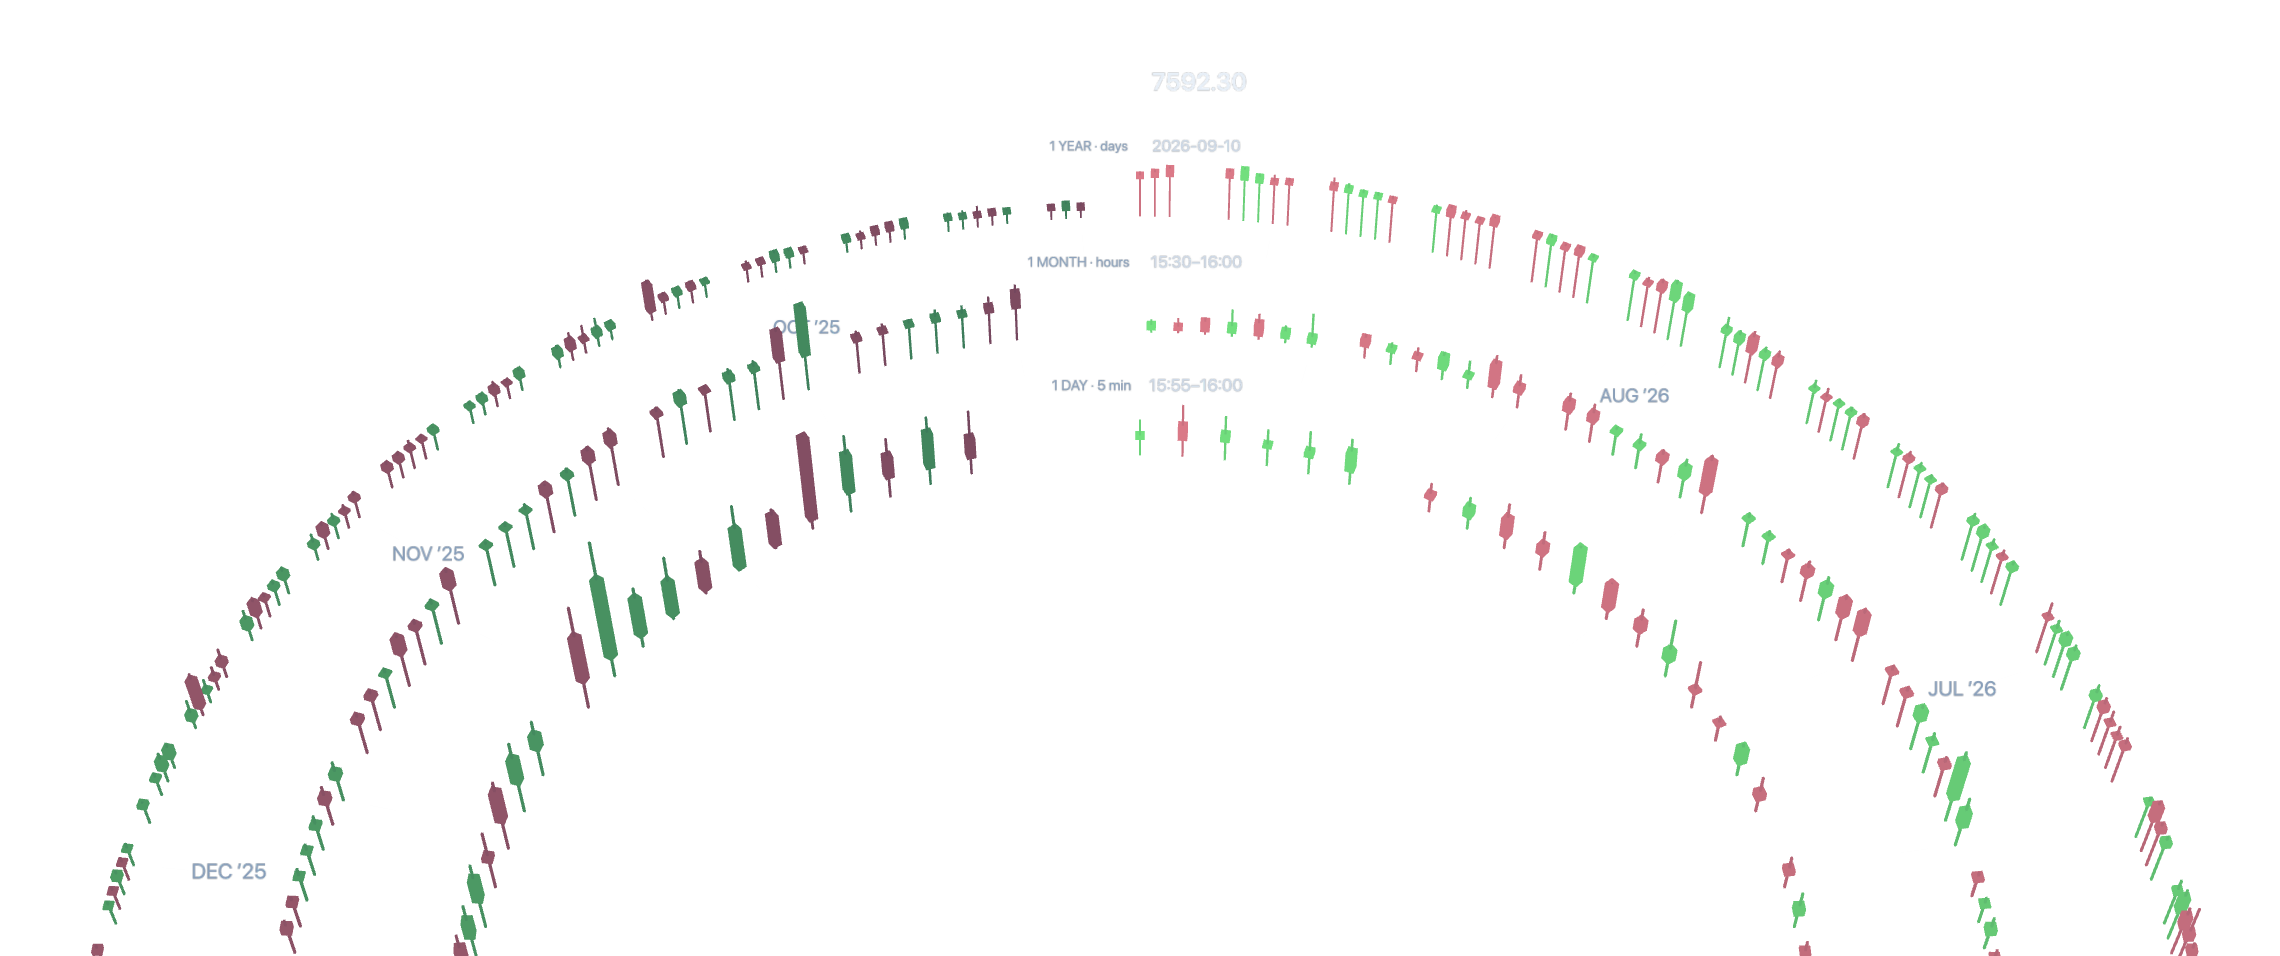
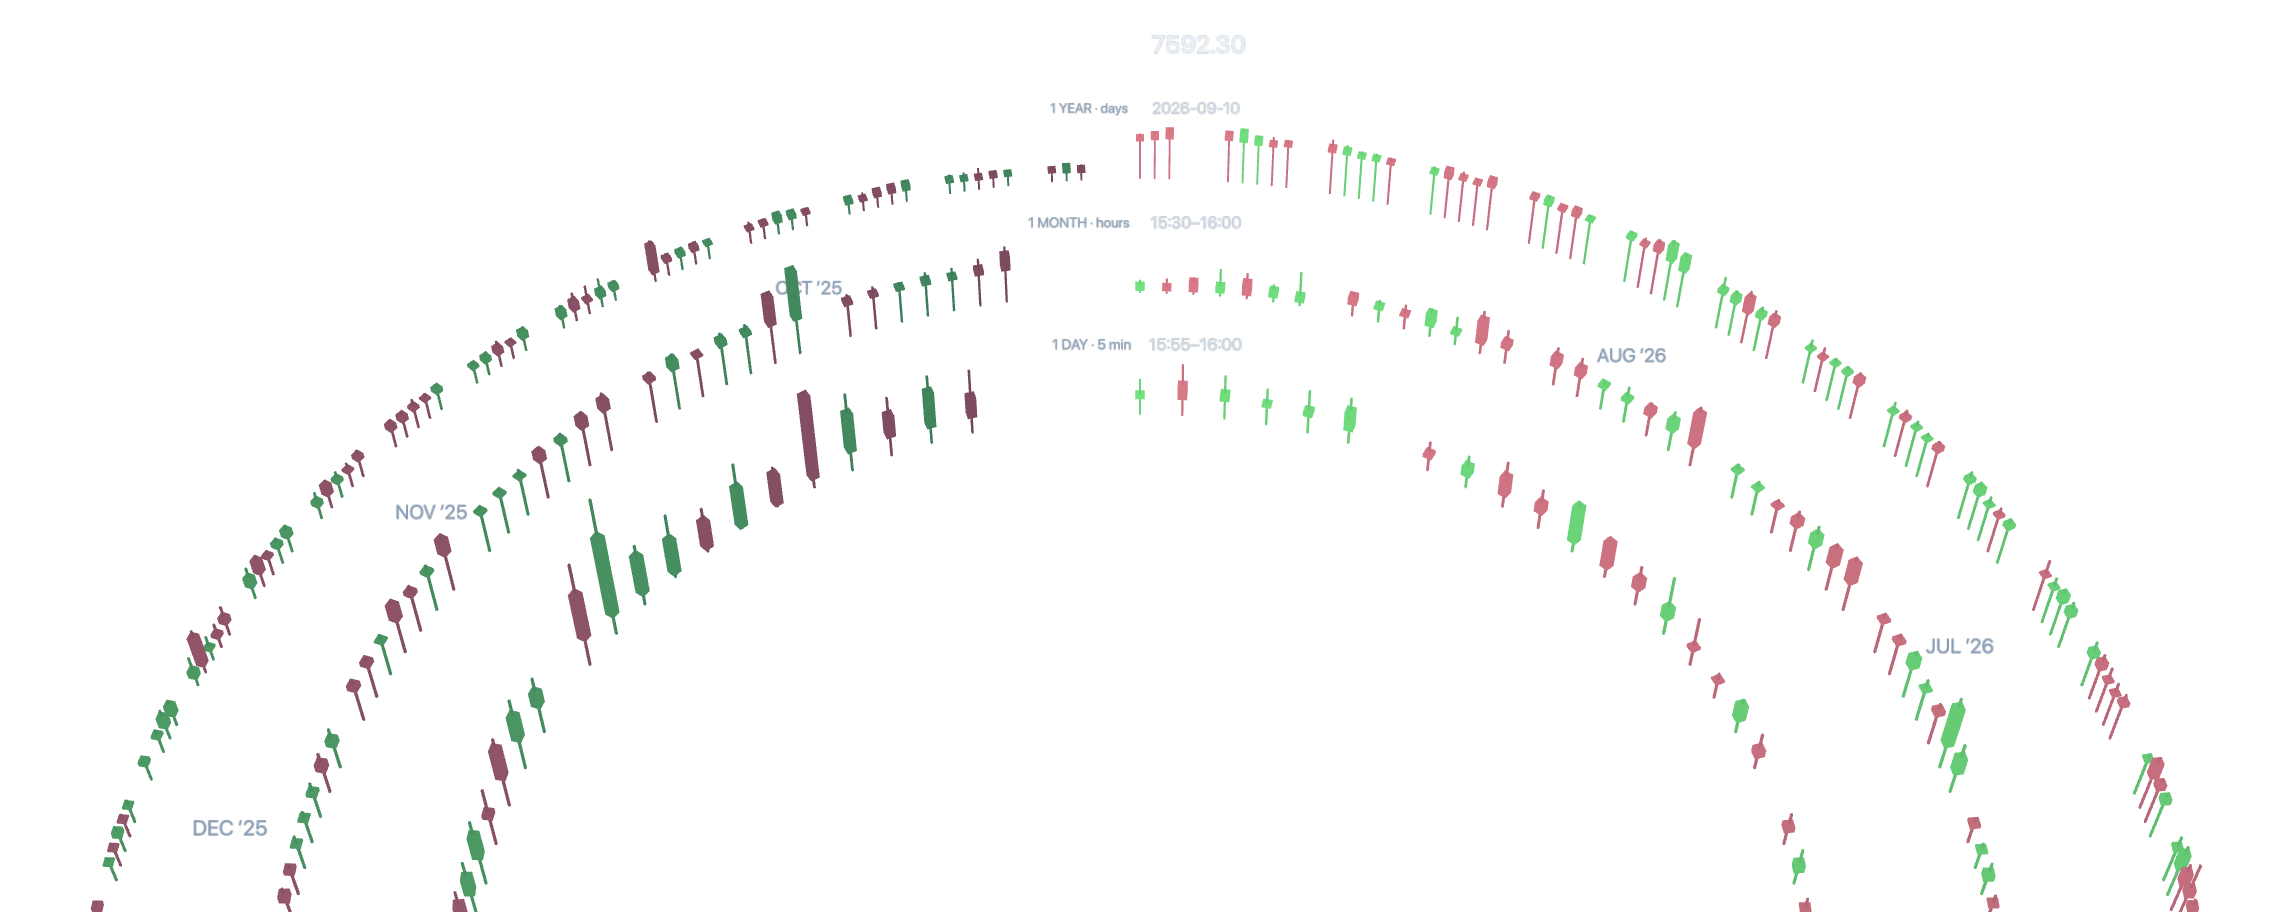
Arcs: numerals follow the replay, resume after a stop, the close sits under the pen
The pen's price and bar spans are repainted as the day replays instead of
holding the close. A stop (hidden tab, offscreen canvas, lost context) now
resumes the clock where it was, and a dissolve interrupted by reduced motion
rebuilds every bar. The partial last hour no longer creeps, so the month arc's
newest bar sits exactly under the pen at rest and in the still. Hour joints on
the day arc follow the layout's own gaps. The render loop idles when nothing
moves. Page: cache keys bumped for the stylesheet and the share image, the
share image's alt and the figure's label describe the arcs, a polite live
region carries the hovered bar, the hero fits a 900 px fold, the share card's
footer has its own ground. The still is re-encoded at the box's size.

diff --git a/assets/site.css b/assets/site.css
@@ -62,7 +62,7 @@ p { margin-bottom: 16px; }
 .page-shell { width: 100%; }
 main { min-width: 0; }
 .hero { position: relative; overflow: hidden; background-color: #041624; background-image: radial-gradient(ellipse 56% 90% at 60% 96%, #103969b8 0%, #082a524d 49%, #04162400 79%), linear-gradient(90deg, #041624 0%, #051a2d 52%, #061c32 100%); color: #fff; }
-.hero-inner { position: relative; display: block; max-width: 1240px; padding: 48px 50px 0; margin: auto; }
+.hero-inner { position: relative; display: block; max-width: 1240px; padding: 40px 50px 0; margin: auto; }
 .hero-inner::before { content: ""; position: absolute; inset: 0 50px; pointer-events: none; border-right: 1px solid #b8d3ed0a; background-image: linear-gradient(to right, #b8d3ed0c .7px, transparent .7px); background-size: 33.3333% 100%; }
 .hero-copy { position: relative; z-index: 2; max-width: 455px; }
 h1 { font: 68px/1.1 Georgia, "Times New Roman", serif; font-weight: 400; letter-spacing: -2px; margin: 0 0 17px; }
@@ -71,11 +71,13 @@ h1 > span { color: #8facd0; }
 .hero-actions { display: flex; align-items: center; flex-wrap: wrap; gap: 28px; margin-top: 29px; }
 .hero-cta { display: inline-flex; align-items: center; gap: 24px; padding: 9px 0; font-size: 13px; font-weight: 500; color: #fff; text-decoration: none; border-bottom: 1px solid #7e98b6; }
 .hero-cta:hover { border-bottom-color: #fff; }
-.hero-visual { position: relative; z-index: 1; margin: 14px 0 0; width: 100%; }
+.hero-visual { position: relative; z-index: 1; margin: 8px 0 0; width: 100%; }
 .hero-visual::before { content: ""; position: absolute; left: 0; right: 0; top: 0; height: 100%; background: radial-gradient(ellipse 40% 70% at 58% 100%, rgba(7, 81, 226, .26) 0%, rgba(7, 81, 226, 0) 100%); pointer-events: none; }
-.market-fallback, #market-canvas { position: relative; display: block; width: 100%; height: auto; aspect-ratio: 1240 / 520; object-fit: contain; }
+.market-fallback, #market-canvas { display: block; width: 100%; object-fit: contain; }
+#market-canvas { position: relative; height: auto; aspect-ratio: 1240 / 496; }
 .market-fallback { position: absolute; inset: 0; height: 100%; }
-#market-canvas { touch-action: pan-y; cursor: crosshair; }
+#market-canvas { touch-action: pan-y; }
+.market-ready #market-canvas { cursor: crosshair; }
 .market-ready .market-fallback { display: none; }
 .content-shell { max-width: 1240px; margin: auto; padding: 0 50px; }
 .highlights-section { padding-top: 32px; }
@@ -193,13 +195,11 @@ footer a { color: var(--muted); text-decoration: none; padding: 8px 0; }
   .recognition-grid,.background-section { column-gap: 40px; }
   .recognition { gap: 13px; }
 }
-@media (max-width: 870px) {
-}
 @media (max-width: 850px) {
   .hero { background-image: radial-gradient(ellipse 92% 76% at 64% 82%, #103969a8 0%, #082a523d 50%, #04162400 84%), linear-gradient(120deg, #041624 0%, #051a2d 65%, #061c32 100%); }
   .hero-inner { padding: 48px 35px 0; }
   .hero-visual { margin-top: 18px; }
-  .market-fallback, #market-canvas { aspect-ratio: 375 / 232; }
+  #market-canvas { aspect-ratio: 375 / 232; }
   .market-fallback { object-fit: cover; }
   .hero-copy { max-width: none; }
   h1 { font-size: 61px; }
@@ -284,15 +284,12 @@ footer a { color: var(--muted); text-decoration: none; padding: 8px 0; }
   .contact-links { gap: 24px; }
   footer { font-size: 11px; padding-top: 16px; margin-top: 32px; }
 }
-@media (max-width: 400px) {
-}
 @media (max-width: 370px) {
   .topbar-in { padding: 0 18px; }
   .content-shell { padding: 0 18px; }
   .hero-inner { padding-left: 21px; padding-right: 21px; }
   .hero-inner::before { left: 21px; right: 21px; }
   .hero-actions { gap: 12px; }
-
   h1 { font-size: 52px; }
   .research-tabs { gap: 8px 18px; }
   .contact-email { font-size: 18px; }
@@ -306,7 +303,7 @@ footer a { color: var(--muted); text-decoration: none; padding: 8px 0; }
   .topbar,.hero-visual,.hero-actions,.research-tabs,.contact-links,footer a { display:none !important; }
   .hero { background:#fff; color:#000; }
   .hero-inner::before { display:none; }
-  .hero-inner { min-height:0; padding:0 0 25px; }
+  .hero-inner { padding:0 0 25px; }
   .hero-copy { max-width:none; }
   .hero p,.hero strong,.hero span { color:#222; }
   h1 { font-size:42px; }

diff --git a/index.html b/index.html
@@ -16,14 +16,14 @@
 <meta property="og:url" content="https://yiping-yin.github.io/">
 <meta property="og:title" content="Yiping Yin — quantitative research and trading">
 <meta property="og:description" content="Market microstructure, asset pricing and multi-agent market simulation at UNSW Sydney. 1st of 253 in the General round and 3rd in the Final technical ranking of Algothon 2026.">
-<meta property="og:image" content="https://yiping-yin.github.io/assets/og-image.png?v=20260911-craft">
+<meta property="og:image" content="https://yiping-yin.github.io/assets/og-image.png?v=20260911-arcs">
 <meta property="og:image:width" content="1200">
 <meta property="og:image:height" content="630">
-<meta property="og:image:alt" content="Yiping Yin — quantitative research and intelligent systems, beside a ring of daily S&amp;P 500 candlesticks read by a fixed pen.">
+<meta property="og:image:alt" content="Yiping Yin — quantitative research and intelligent systems, above three arcs of S&amp;P 500 candlesticks: a year of days, a month of hours and a day of 5-minute bars under one pen">
 <meta name="twitter:card" content="summary_large_image">
 <meta name="twitter:title" content="Yiping Yin — quantitative research and trading">
 <meta name="twitter:description" content="Market microstructure, asset pricing and multi-agent market simulation at UNSW Sydney. 1st of 253 in the General round and 3rd in the Final technical ranking of Algothon 2026.">
-<meta name="twitter:image" content="https://yiping-yin.github.io/assets/og-image.png?v=20260911-craft">
+<meta name="twitter:image" content="https://yiping-yin.github.io/assets/og-image.png?v=20260911-arcs">
 
 <script type="application/ld+json">
 {
@@ -40,7 +40,7 @@
   ]
 }
 </script>
-<link rel="stylesheet" href="assets/site.css?v=craft-3">
+<link rel="stylesheet" href="assets/site.css?v=arcs-1">
 <script>
   // Light is the default. Honor a saved choice before paint, including when storage is unavailable.
   (function () {
@@ -89,9 +89,10 @@
           <p class="hero-focus">Quantitative research<br>&amp; intelligent systems.</p>
           <div class="hero-actions"><a href="#research" class="hero-cta">Explore my research <span aria-hidden="true">↗</span></a></div>
         </div>
-        <figure class="hero-visual" aria-label="Three arcs of S&amp;P 500 candlesticks — a year of days, a month of hours and a day of 5-minute bars — rising from the bottom of the box; one pen at the top reads the same moment on all three, and the day replays bar by bar. Fixed snapshot, not live.">
-          <img class="market-fallback" src="assets/market-arcs.png?v=20260911-arcs" alt="Static view of three concentric arcs of candlesticks with a pen at the top" width="2280" height="956">
+        <figure class="hero-visual" aria-label="Three arcs of S&amp;P 500 candlesticks — a year of days, a month of hours and a day of 5-minute bars — rising from the bottom of the box; one pen at the top reads the same moment on all three. Fixed snapshot, not live.">
+          <img class="market-fallback" src="assets/market-arcs.png?v=20260911-arcs" alt="Static view of three concentric arcs of candlesticks with a pen at the top" width="2280" height="912">
           <canvas id="market-canvas" aria-hidden="true"></canvas>
+          <span class="sr-only" id="market-hover" role="status" aria-live="polite"></span>
           <figcaption class="market-caption sr-only"><span class="market-caption-source">S&amp;P 500 · 2026-09-10 · a year of days · a month of hours · a day of 5-minute bars · captured 2026-09-11 · not live</span><span class="market-caption-session"><span class="market-caption-date">15:55–16:00</span> · O 7592.05 · H 7592.92 · L 7589.65 · C 7592.30 · +0.00 %</span></figcaption>
         </figure>
       </div>

diff --git a/assets/share-card.html b/assets/share-card.html
@@ -9,17 +9,18 @@
 * { box-sizing: border-box; }
 body { position: relative; overflow: hidden; margin: 0; width: 1200px; height: 630px; padding: 67px 68px; background-color: #041624; background-image: radial-gradient(ellipse 56% 90% at 58% 100%, #103969b8 0%, #082a524d 49%, #04162400 79%), linear-gradient(90deg, #041624 0%, #051a2d 52%, #061c32 100%); color: #f5f8fc; font-family: -apple-system, BlinkMacSystemFont, "Segoe UI", sans-serif; }
 body::before { content: ""; position: absolute; inset: 0 68px; border-right: 1px solid #b8d3ed0a; background: linear-gradient(to right, #b8d3ed0c .7px, transparent .7px) 0 0 / 33.3333% 100%; }
-.hero-visual { position: absolute; margin: 0; left: 68px; right: 68px; bottom: 0; height: 330px; }
+.hero-visual { position: absolute; margin: 0; left: 68px; right: 68px; bottom: 0; height: 330px; z-index: 0; }
 .hero-visual img { position: absolute; display: block; width: 100%; height: 100%; object-fit: cover; object-position: center top; }
 .copy { position: relative; z-index: 1; margin-top: 95px; }
 h1 { margin: 0 0 25px; font: 86px/1 Georgia, serif; letter-spacing: -3px; }
 h1 span { color: #8facd0; }
 .statement { font-size: 29px; line-height: 1.5; letter-spacing: -.6px; margin: 0; }
-footer { position: absolute; left: 68px; right: 68px; bottom: 40px; border-top: 1px solid #ffffff25; padding-top: 22px; display: flex; justify-content: space-between; color: #a5b9d1; font-size: 13px; }
+footer { position: absolute; left: 0; right: 0; bottom: 0; padding: 22px 68px 40px; background: linear-gradient(to top, #041624 55%, #04162400 100%); display: flex; justify-content: space-between; color: #a5b9d1; font-size: 13px; }
+footer::before { content: ""; position: absolute; left: 68px; right: 68px; top: 0; border-top: 1px solid #ffffff25; }
 </style>
 </head>
 <body>
-<figure class="hero-visual"><img src="market-arcs.png" width="2280" height="956" alt=""></figure>
+<figure class="hero-visual"><img src="market-arcs.png" width="2280" height="912" alt=""></figure>
 <div class="copy"><h1>Yiping Yin<span>.</span></h1><p class="statement">Quantitative research<br>&amp; intelligent systems.</p></div>
 <footer><span>Asset pricing · Trading systems · Intelligent agents</span><span>yiping-yin.github.io ↗</span></footer>
 </body>

diff --git a/README.md b/README.md
@@ -29,7 +29,7 @@ Keep research context attached to numerical results: competition category, histo
 ```sh
 node --check assets/site.js
 node --check assets/market-arcs.mjs
-node --test
+node --test tests/*.test.mjs
 git diff --check
 ```
 
